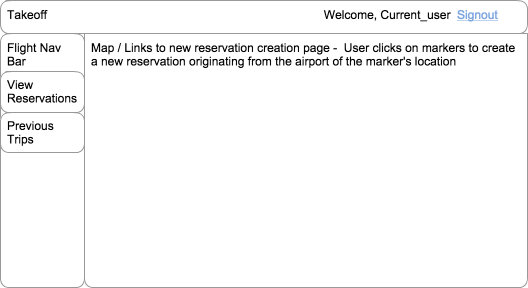
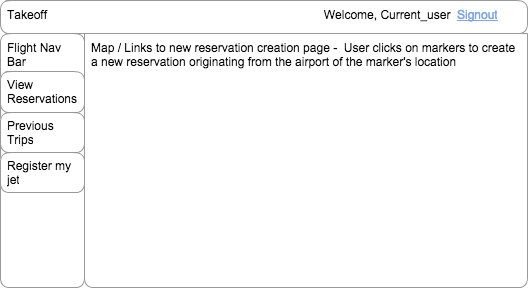
Updated design docs from TA feedback

diff --git a/README.md b/README.md
@@ -15,6 +15,7 @@ and React.js. Takeoff allows users to:
 - [ ] Log in / Log out
 - [ ] View nearest airports and available jets for hire
 - [ ] Create, read, edit, and delete flight reservations
+- [ ] Add jets to be rented by the service
 
 ## Design Docs
 * [View Wireframes][view]
@@ -25,51 +26,67 @@ and React.js. Takeoff allows users to:
 
 ## Implementation Timeline
 
-### Phase 1: User Authentication, Airports Model, Reservations Model and JSON API (2.5 days)
+
+### Phase 1: User Authentication (1.5 days)
 
 In Phase 1, I will begin by implementing user signup and authentication (using
 BCrypt). There will be a basic landing page after signup that will contain the
-container for the application's root React component. Before building out the
-front end, I will begin by setting up a full JSON API for Users, Airports, and
-Reservations.
+container for the application's root React component.
 
 [Details][phase-one]
 
-### Phase 2: Flux Architecture and Reservations CRUD (2.5 days)
+### Phase 2: Airport Index and Map (2.5 days)
 
-Phase 2 is focused on setting up Flux, the React Router, and the React view
-structure for the main application. After the basic Flux architecture has been
-set up, Reservation and Airports stores will be implemented and a set of actions
-corresponding to the needed CRUD functionality created. Once this is done, I
-will create React views for the Map `Index`, reservation `Index` and reservation
-`Create/Modify`. At the end of Phase 2, reservations can be created, read,
-edited and destroyed in the browser. Reservations should save to the database
-and be accessible to the front end through ajax calls.
+In phase 2, I will setup the full JSON API for airports and seed my database
+with airports.  I will then create
+the react view logic using the google maps API.  At the end of this stage, users
+will be able to airports on the map and click on airport marks to go to the
+reservation creation page to be created in phase 3.  I will also begin
+implementing basic CSS for the map/index page.
 
 [Details][phase-two]
 
-### Phase 3: Map (2.5 days)
+### Phase 3:  Reservation creation (1.5 days)
 
-Phase 3 involves the integration of google maps into the map/index page that
-users are taken to upon sign in.  Users will be able to see the nearest airports
-marked on the map and can click these markers to go to the reservation
-create/modify page.  The form will default the origin to the airport the user
-clicked on.  Map will need to generate ajax calls to populate the airports store
-with airports in the map's view.
+In phase 3, I will setup the JSON API for new reservations and implement the
+react view logic for reservation creation.  I will seed my database with
+reservations, and I will also add basic CSS styling to
+the reservation creation form.  At the end of this stage, users should be able
+to navigate to the reservation creation form from the map, and then submit a
+reservation which is saved to the database.
 
 [Details][phase-three]
 
-### Phase 4: Styling and Seeding (2.5 days)
+### Phase 4:  Reservation updating and deletion (2 days)
 
-Phase 4 will focus on polishing my app's styling and database seeding.  In the
-previous stages, I will use CSS to make the app layout match my proposed
-wireframes.  In this stage, I will add additional CSS to fully polish the site.
-I will also seed the database with additional data to create a better demo
-experience.
+In phase 4, I will update the JSON reservation API to add support for modifying
+and deleting existing reservations.  I will then update the react views to
+allow users to view previously created reservations and modify them.  At the
+end of this stage, users should be able to view, modify, and delete their
+reservations and have this saved to the database.
+
+[Details][phase-four]
+
+### Phase 5: Jets (3 days)
+
+In phase 5, I will add a table to keep track of jets and link jets to owners.  
+I will create a full JSON API for jets to be utilized by my react views.  I will
+add a view for owners to register their jets and update the reservation creation
+form to allow users to select a jet from available jets at the origin airport. I
+will also add basic CSS styling to the the jet registration page and seed the
+database with jets.
+
+[Details][phase-five]
+
+### Phase 6: Styling and seeding (2 days)
+
+Phase 6 will focus on polishing my app's styling and seed data. I will add
+additional CSS to fully polish the site and add more seeding to the database
+to create a strong demo experience.
+
 
 ### Bonus Features (TBD)
-- [ ] Add Jets to the JSON API and allow users to select a specific jet
-- [ ] Add sign up form for jet owners to rent their jets
+- [ ] Add features to jets such as prices, ratings, reviews, photos, and comments
 - [ ] Improve pricing system
 
 
@@ -77,3 +94,4 @@ experience.
 [phase-two]: ./docs/phases/phase2.md
 [phase-three]: ./docs/phases/phase3.md
 [phase-four]: ./docs/phases/phase4.md
+[phase-five]: ./docs/phases/phase5.md

diff --git a/docs/schema.md b/docs/schema.md
@@ -15,6 +15,7 @@ id                | integer   | not null, primary key
 user_id           | integer   | not null, foreign key (references users), indexed
 origin_id         | integer   | not null, foreign key (references airports), indexed
 destination_id    | integer   | not null, foreign key (references airports), indexed
+jet_id            | integer   | not null, foreign key (references jets), indexed
 departure_time    | datetime  | not null, default: false
 
 ## airports
@@ -25,3 +26,12 @@ latitude    | float     | not null
 longitude   | float     | not null
 name        | string    | not null, (ex: San Francisco Airport)
 code        | string    | not null, (ex: SFO)
+
+## jets
+column name | data type | details
+------------|-----------|-----------------------
+id          | integer   | not null, primary key
+owner_id    | integer   | not null, foreign key (references users), indexed
+airport_id  | integer   | not null, foreign key (references airports), indexed
+name        | string    | not null
+passengers  | integer   | not null

diff --git a/docs/phases/phase2.md b/docs/phases/phase2.md
@@ -1,36 +1,31 @@
-# Phase 2: Flux Architecture and Reservations CRUD
+# Phase 2: Airport Index and Map
 
 ## Rails
 ### Models
+* Airport
 
 ### Controllers
+* Api::AirportsController (show, index)
 
 ### Views
+* airports/show.json.jbuilder
 
 ## Flux
 ### Views (React Components)
+* Map
 * NavBar
   - NavBarItem
-* Reservation form
-* Reservation index
-  -ReservationItem
+
 
 ### Stores
-* Reservation
 * Airport
 
 ### Actions
-* ApiActions.receiveAllReservations
-* ApiActions.receiveSingleReservation
-* ApiActions.deleteReservation
+* ApiActions.receiveAllAirports
 * ApiActions.receiveSingleAirport
 
 ### ApiUtil
-* ApiUtil.fetchAllReservations
-* ApiUtil.fetchSingleReservation
-* ApiUtil.createReservation
-* ApiUtil.editReservation
-* ApiUtil.destroyReservation
+* ApiUtil.fetchAllAirports
 
 ## Gems/Libraries
 * Flux Dispatcher

diff --git a/docs/phases/phase4.md b/docs/phases/phase4.md
@@ -1,0 +1,36 @@
+# Phase 4: Reservation updating and deletion
+
+## Rails
+### Models
+* Reservation
+
+### Controllers
+* Api::ReservationsController (destroy, index, show, update)
+
+### Views
+* reservations/index.json.jbuilder
+* reservations/show.json.jbuilder
+
+## Flux
+### Views (React Components)
+* Reservation index
+  -ReservationItem
+
+### Stores
+* Reservation
+
+### Actions
+* ApiActions.receiveAllReservations
+* ApiActions.receiveSingleReservation
+* ApiActions.deleteReservation
+
+
+### ApiUtil
+* ApiUtil.fetchAllReservations
+* ApiUtil.fetchSingleReservation
+* ApiUtil.createReservation
+* ApiUtil.editReservation
+* ApiUtil.destroyReservation
+
+## Gems/Libraries
+* Google maps API

diff --git a/docs/phases/phase1.md b/docs/phases/phase1.md
@@ -1,23 +1,19 @@
-# Phase 1: User Authentication, Airports Model, Reservations Model and JSON API
+# Phase 1: User Authentication
 
 ## Rails
 ### Models
 * User
-* Reservation
-* Airport
+
 
 ### Controllers
 * UsersController (create, new)
 * SessionsController (create, new, destroy)
-* Api::ReservationsController (create, destroy, index, show, update)
-* Api::AirportsController (show)
+
 
 ### Views
 * users/new.html.erb
 * session/new.html.erb
-* reservations/index.json.jbuilder
-* reservations/show.json.jbuilder
-* airports/show.json.jbuilder
+
 
 ## Flux
 ### Views (React Components)

diff --git a/docs/phases/phase3.md b/docs/phases/phase3.md
@@ -1,24 +1,28 @@
-# Phase 3: Map
+# Phase 3: Reservation Creation
 
 ## Rails
 ### Models
+* Reservation
 
 ### Controllers
-* Api::AirportsController (index)
+* Api::ReservationsController (create)
 
 ### Views
 
+
 ## Flux
 ### Views (React Components)
-* Map
+* Reservation form
+
 
 ### Stores
 
+
 ### Actions
-* ApiActions.receiveAllAirports
+
 
 ### ApiUtil
-* ApiUtil.fetchAllAirports
+* ApiUtil.createReservation
+
 
 ## Gems/Libraries
-* Google maps API

diff --git a/docs/phases/phase5.md b/docs/phases/phase5.md
@@ -1,0 +1,28 @@
+# Phase 5: Jets
+
+## Rails
+### Models
+* Jets
+
+### Controllers
+* Api::ReservationsController (create, index, show)
+
+### Views
+* reservations/index.json.jbuilder
+* reservations/show.json.jbuilder
+
+## Flux
+### Views (React Components)
+* Jet registration form
+
+### Stores
+* Jets
+
+### Actions
+* ApiActions.receiveAllJets
+
+### ApiUtil
+* ApiUtil.fetchAllJets
+* ApiUtil.createJet
+
+## Gems/Libraries
